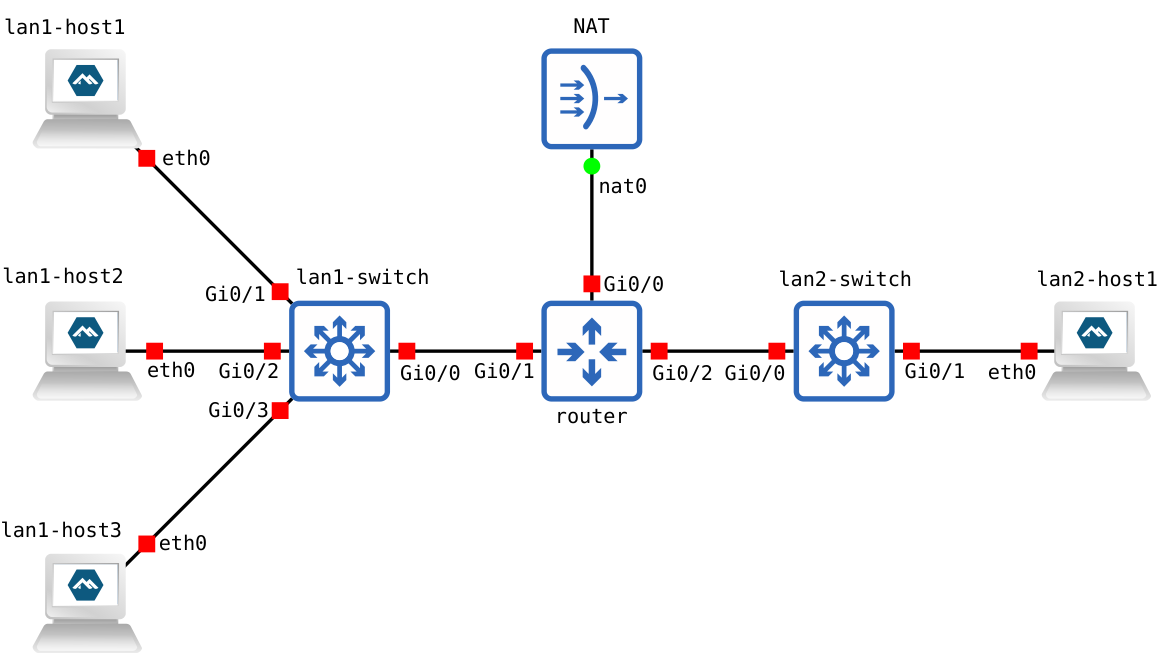
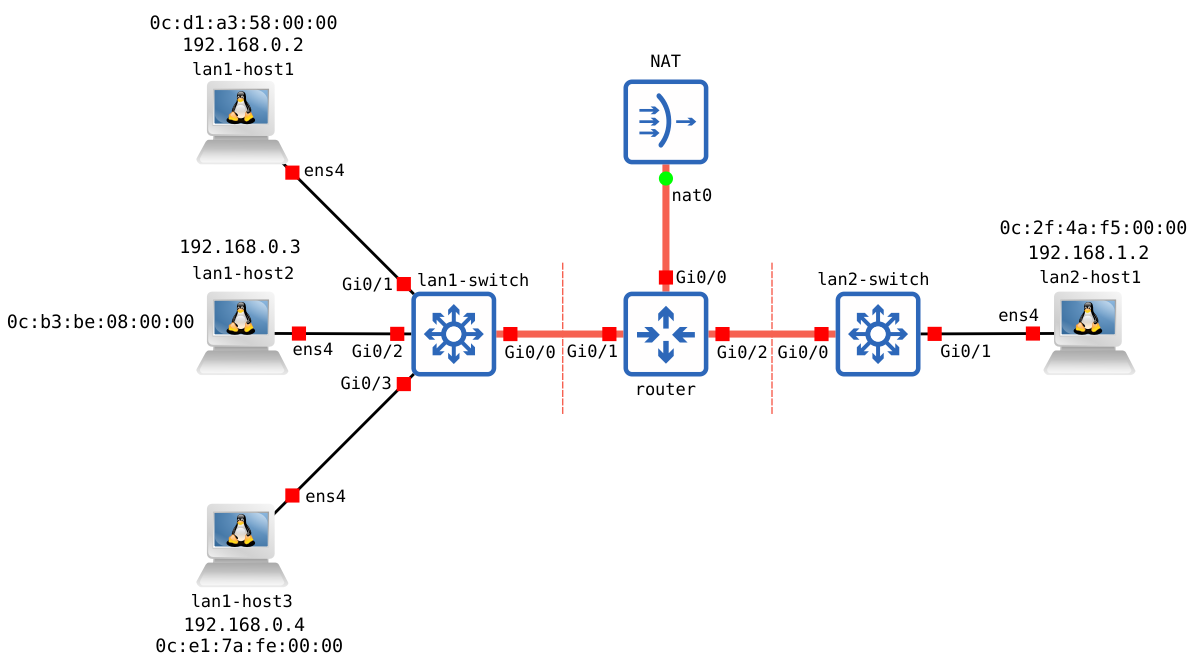
Начата лабораторная работа по ARP-Scapy

diff --git a/labs/ARP/ARP Labs_scapy.md b/labs/ARP/ARP Labs_scapy.md
@@ -3,7 +3,7 @@
 Хост: Debian GNU/Linux 12 (bookworm) <br>
 Оркестратор: GNS3 v3.0.5<br>
 Гипервизор: QEMU v7.2.22 + VMM GUI v4.1.0<br>
-Гостевая система: Alpine Linux v3.16<br>
+Гостевая система: Debian GNU/Linux 12 (bookworm)<br>
 Инструмент исследования: Scapy v2.5.0, Wireshark v4.0.17, arp<br>
 <h4>Цель работы:</h4> Изучить стандартные и пограничные состояния протокола ARP, используя библиотеку Scapy для генерации произвольных кадров, и проанализировать реакцию сетевого стека гостевых ОС на некорректные параметры.<br>
 <h4>Задачи:</h4>
@@ -14,8 +14,34 @@
 <li>Проанализировать уязвимость сетевого стека к ARP Poisoning и зафиксировать изменения в кэше гостевой системы.<br>
 <h4>Топология тестовой сети</h4>
 <p align="center"><img src="../../assets/arp_lab_topology.png"></p>
-Руководство по созданию простейшей топологии находится в этом же репозитории в папке <a href="../../manuals/GNS3/Setting up a simple topology in GNS3.md">manuals/GNS3.</a>
-
+Руководство по созданию простейшей топологии находится в этом же репозитории в папке <a href="../../manuals/GNS3/Setting up a simple topology in GNS3.md">manuals/GNS3. </a>Для подключения тестовой лаборатории к Интернет (для установки Scapy) нужно добавить NAT и настроить доступ, а так же прописать ACL для хостов.<br><br>
+<li>Настройка NAT на роутере:<br>
+<code>conf t<br>
+interface g0/0<br>
+ip address dhcp<br>
+no shutdown<br>
+exit</code><br>
+<li>Настройка ACL на роутере:<br>
+<code>access-list 1 permit 192.168.0.0 0.0.0.255<br>
+access-list 2 permit 192.168.1.0 0.0.0.255<br>
+ip nat inside source list 1 interface g0/0 overload<br>
+ip nat inside source list 2 interface g0/0 overload</code><br><br>
+Кроме того, <b>необходимо</b> назначить каждому хосту статический IP- адрес для предотвращения конфликтов адресов. Учитывая,что на хостах установлен Linux, делаем следующее:<br>
+<li>Исключаем нужные нам адреса из раздачи:<br>
+<code>Router(config)# ip dhcp excluded-address 192.168.0.2 192.168.0.4<br>Router(config)# ip dhcp excluded-address 192.168.1.2<br>
+</code><br>
+<li>Затем редактируем сетевой интерфейс на хосте:<br>
+<code>sudo nano /etc/network/interfaces</code><br><br>
+<code>auto [интерфейс]<br>
+iface [интерфейс] inet static<br>
+    address [адрес]<br>
+    netmask [маска_подсети]<br>
+    gateway [адрес_шлюза]<br>
+    dns-nameservers 8.8.8.8 1.1.1.1<br></code><br>
+<li>Кроме этого, назначим хостам соответствующие имена для удобства различия кто есть кто:<br>
+<code>sudo nano /etc/hostname<br>
+sudo nano /etc/hosts</code><br><br>
+меняем имя по умолчанию на требуемое.
 <h4>Пример формирования Ethernet- кадра с вложенным ARP- пакетом через Scapy</h4>
 
 <code>from scapy.all import *<br>

diff --git a/manuals/GNS3/Extend disk space on a QCOW2 image.md b/manuals/GNS3/Extend disk space on a QCOW2 image.md
@@ -1,0 +1,38 @@
+Выключи VM полностью
+
+Очень важно! Не делаем это на работающей системе.
+
+2⃣ Увеличиваем файл диска на хосте
+
+qemu-img resize debian-12.6.qcow2 +2G
+Файл теперь больше (~4 GB), VM ещё не знает об этом.
+
+3⃣ Не трогаем старый раздел!
+
+Сейчас у тебя есть /dev/sda1 с root, который занимает 1.9 GB.
+
+Мы не удаляем его, просто расширим файловую систему.
+
+Расширяем раздел безопасно
+Устанавливаем пакет cloud-guest-utils, который содержит growpart:
+sudo apt update
+sudo apt install -y cloud-guest-utils
+
+Расширяем основной раздел /dev/sda1 до конца диска:
+sudo growpart /dev/sda 1
+
+Проверяем с помощью:
+lsblk
+Теперь /dev/sda1 будет занимать весь диск (~4 GB)
+
+Расширяем файловую систему
+sudo resize2fs /dev/sda1
+После этого df -h покажет весь увеличенный размер /
+
+
+
+sudo apt update
+sudo apt install -y python3 python3-pip python3-scapy
+
+
+python3 -c "from scapy.all import *; show_interfaces()"
